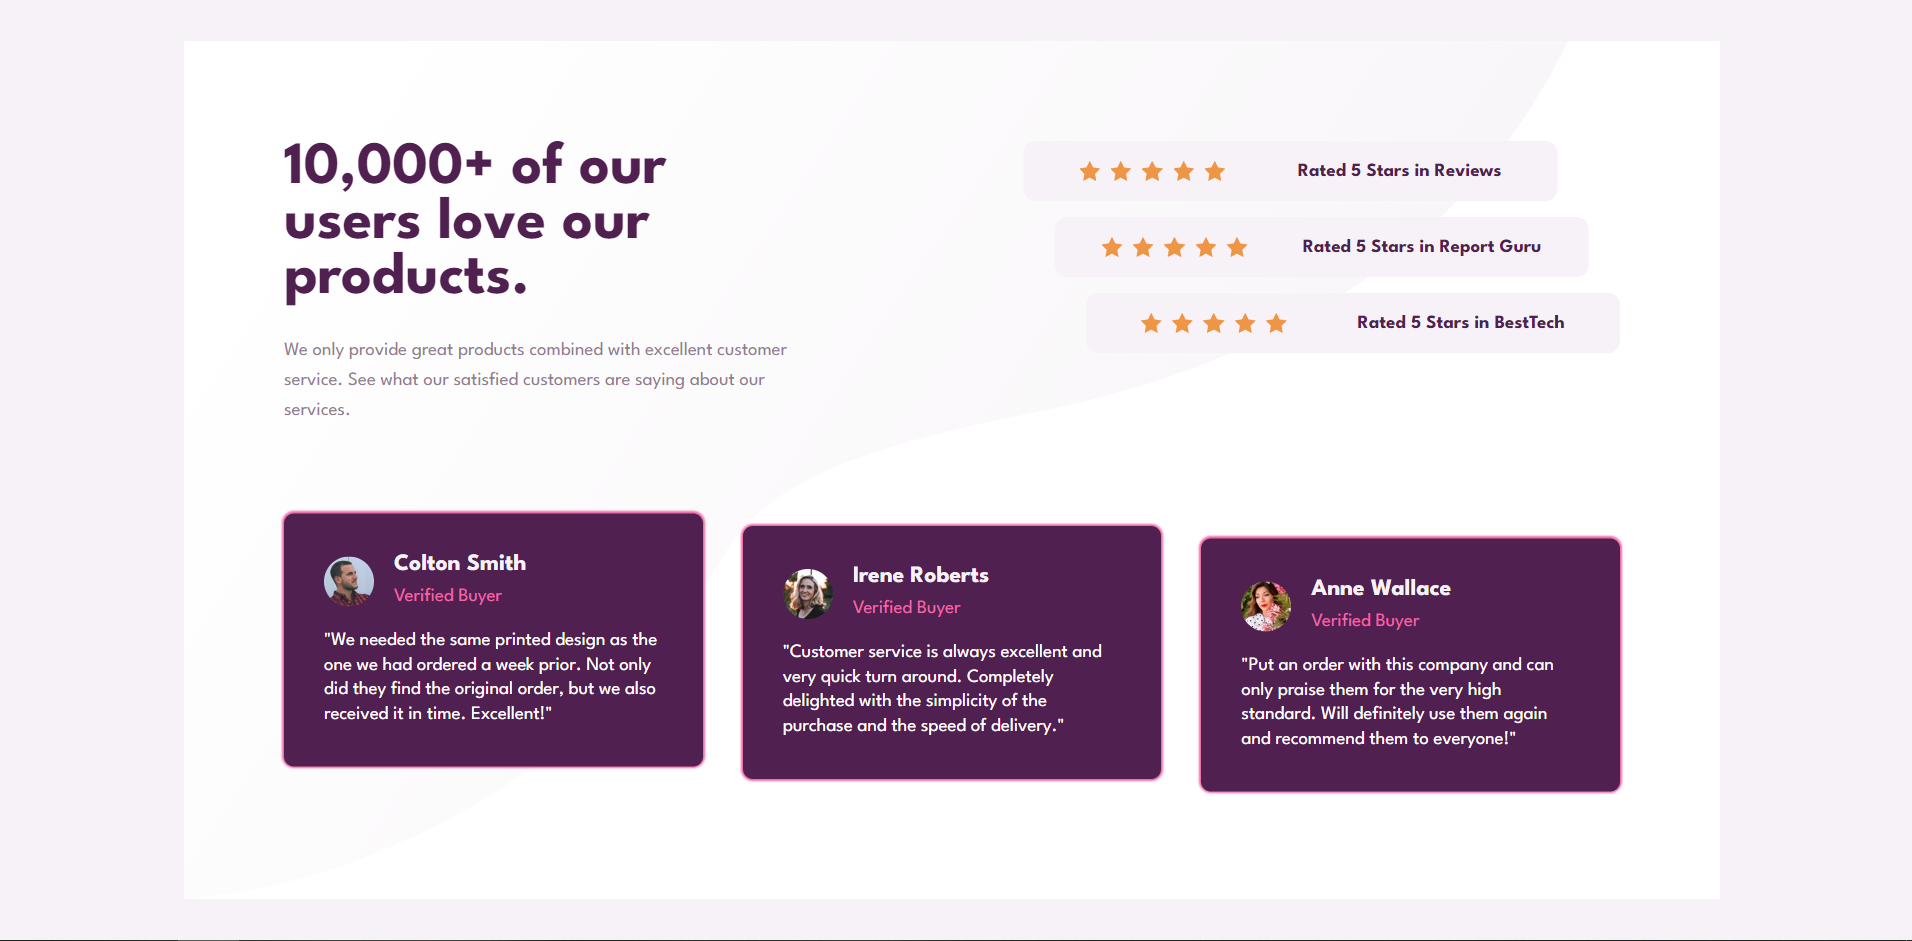
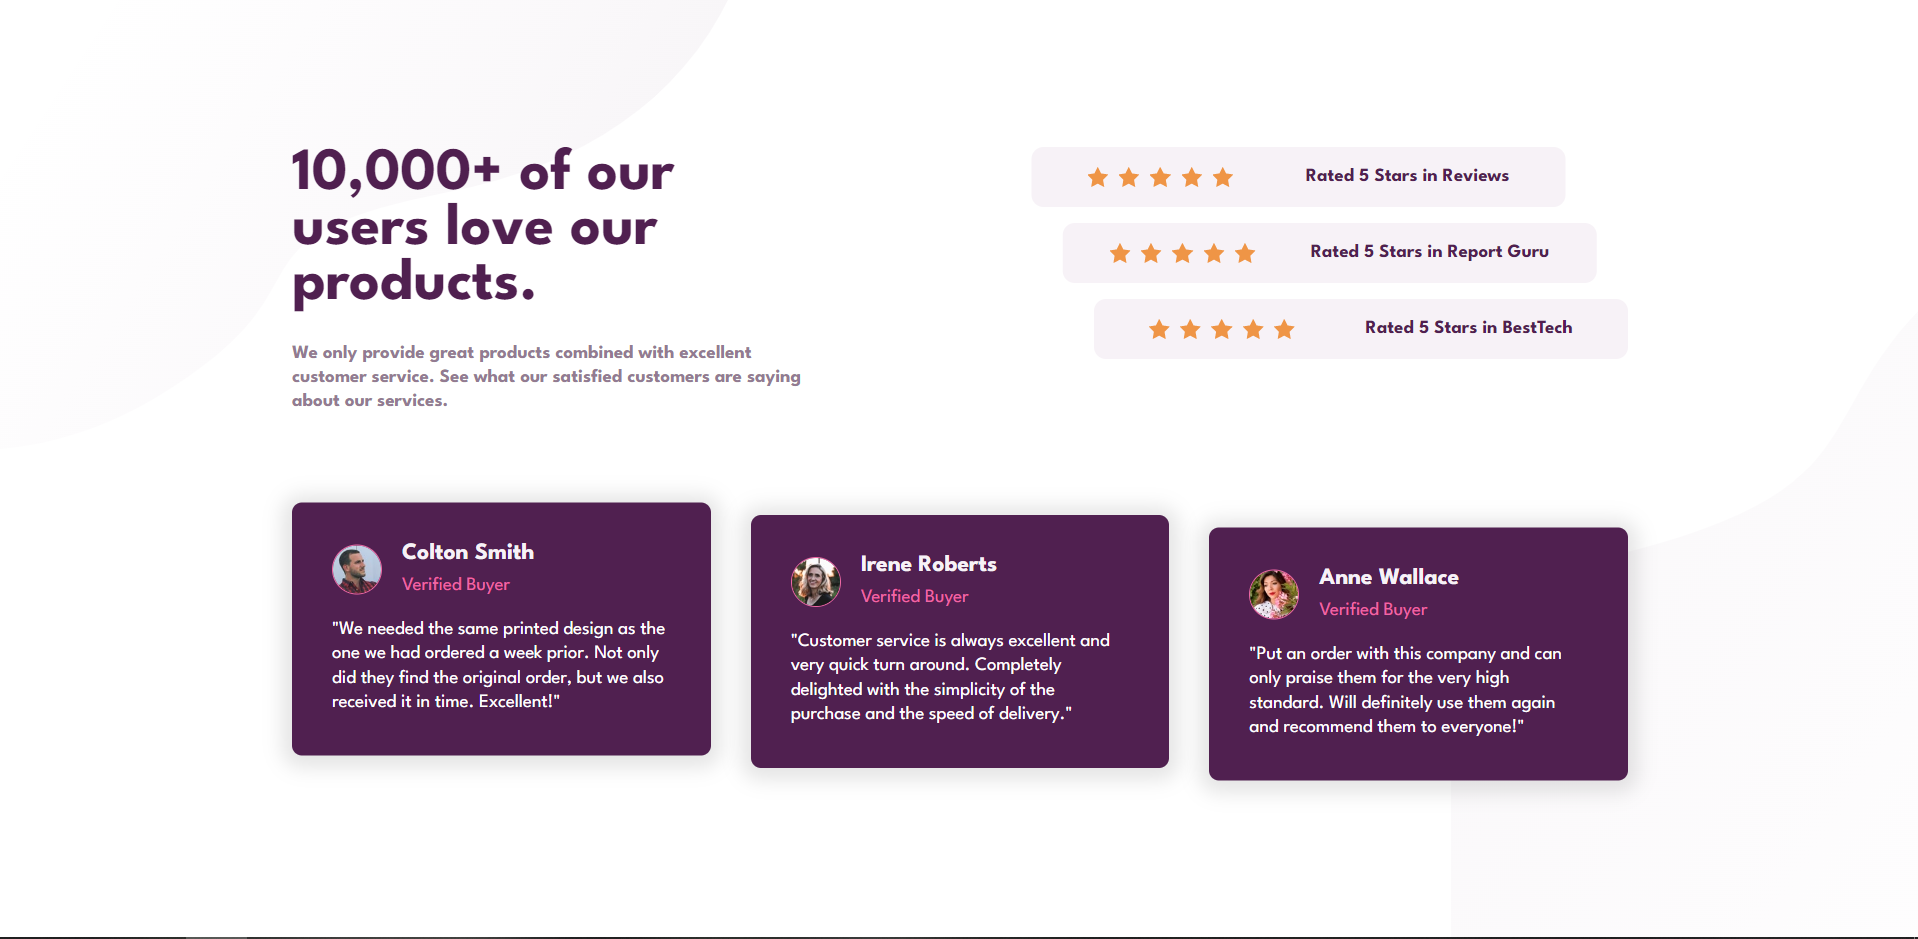
update

diff --git a/css/style.css b/css/style.css
@@ -32,18 +32,14 @@ body  {
     display: flex;
     align-items: center;
     justify-content: center;
-    background-color: var(--LightGrayishMagenta);
+    background-color: var(--White);
+    background-image:url(../images/bg-pattern-top-desktop.svg) ,url(../images/bg-pattern-bottom-mobile.svg);
+    background-position: top left , bottom right ;
+    background-repeat: no-repeat;
     min-height: 100vh;
 }
 main{
     max-width: 80%;
-    background-color: var(--White);
-    background-image:url(../images/bg-pattern-bottom-mobile.svg);
-    background-position: top  ;
-    background-image:url(../images/bg-pattern-top-desktop.svg);
-    background-position: bottom ;
-    background-size: 100%;
-    background-repeat: no-repeat;
     padding: 5rem 5rem;
 }
 section{

diff --git a/README-template.md b/README-template.md
@@ -12,9 +12,8 @@ This is a solution to the [Social proof section challenge on Frontend Mentor](ht
   - [Built with](#built-with)
   - [What I learned](#what-i-learned)
   - [Continued development](#continued-development)
-  - [Useful resources](#useful-resources)
 - [Author](#author)
-- [Acknowledgments](#acknowledgments)
+- 
 
 **Note: Delete this note and update the table of contents based on what sections you keep.**
 
@@ -33,8 +32,8 @@ Users should be able to:
 
 ### Links
 
-- Solution URL: [Add solution URL here](https://your-solution-url.com)
-- Live Site URL: [Add live site URL here](https://your-live-site-url.com)
+- Solution URL: [Add solution URL here](https://github.com/jamel123a/FrontendMentor_SocialProofSection)
+- Live Site URL: [Add live site URL here](https://frontendmentor-socialproofsection2.netlify.app/)
 
 ## My process
 
@@ -46,12 +45,9 @@ Users should be able to:
 - CSS Grid
 - CSS Transform
 
-
 ### What I learned
 
-
 upgrade my skill in css
-
 
 ### Continued development
  
@@ -59,7 +55,7 @@ upgrade my skill in css
 
 ## Author
 
-- Website - [Here](https://www.your-site.com)
+
 - Frontend Mentor - [@Jamel Issaoui](https://www.frontendmentor.io/profile/jamel123a)
 - Linkedin - [@Jamel Issaoui](https://www.linkedin.com/in/issaoui-jamel/)
 
